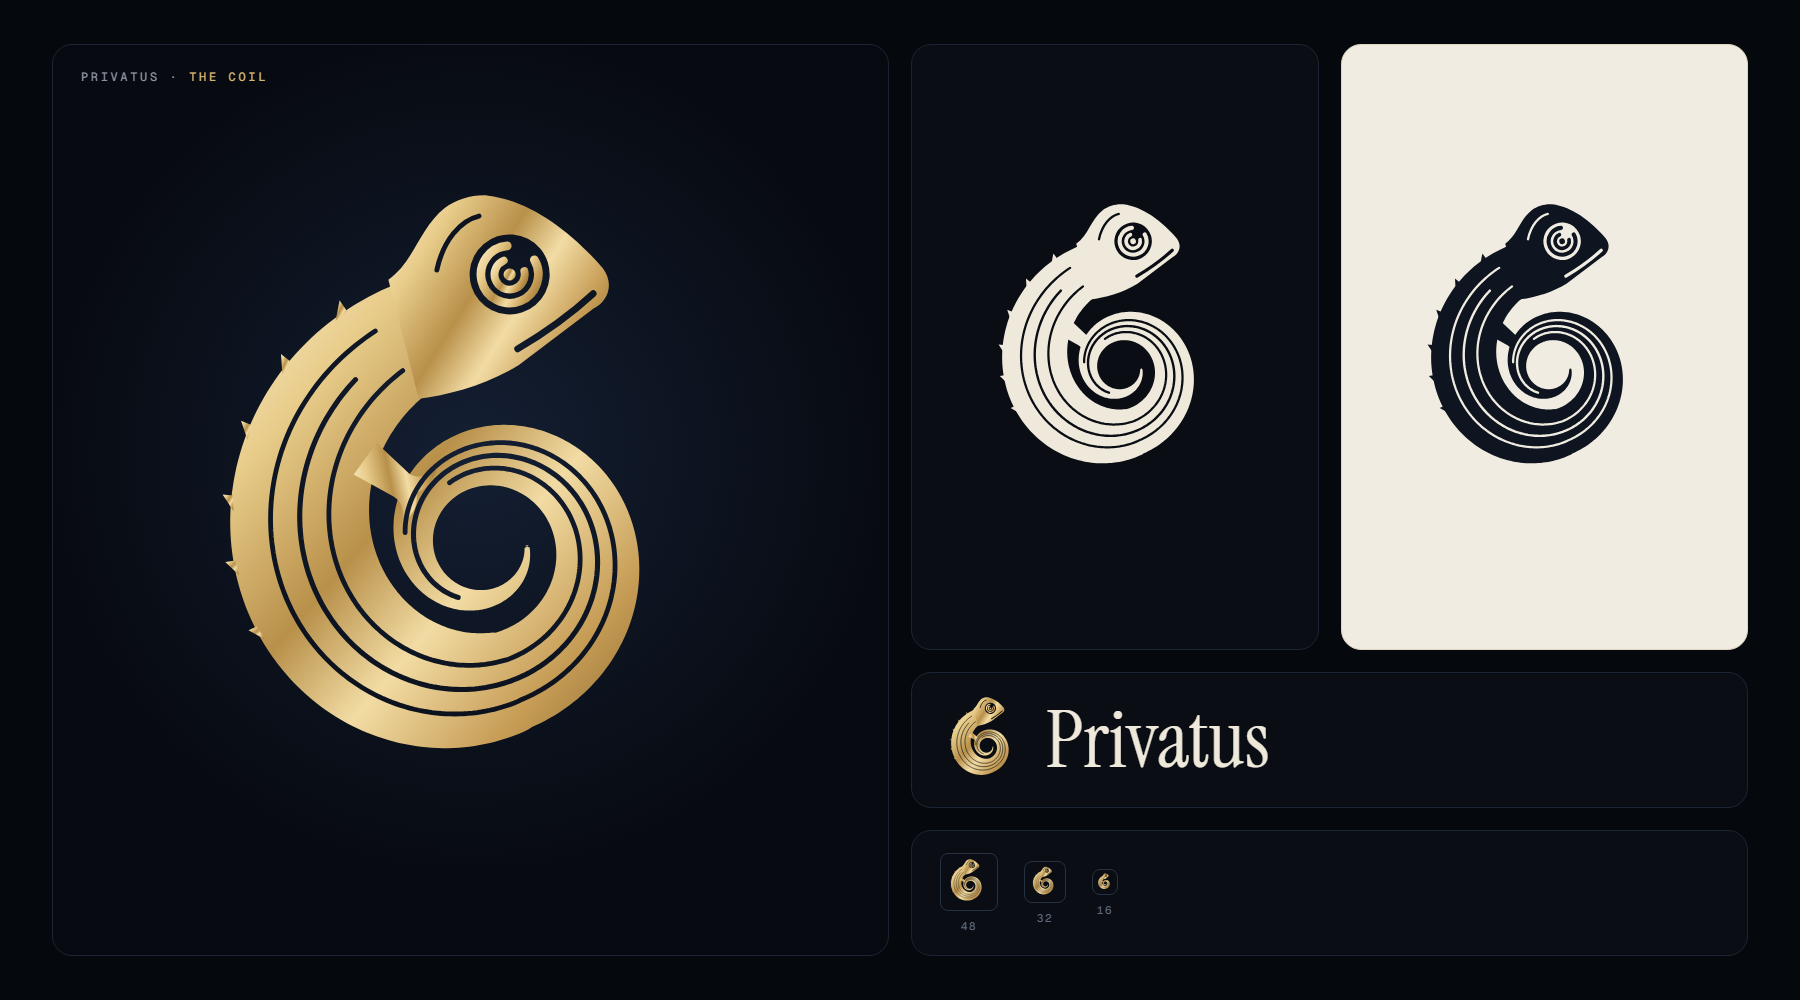
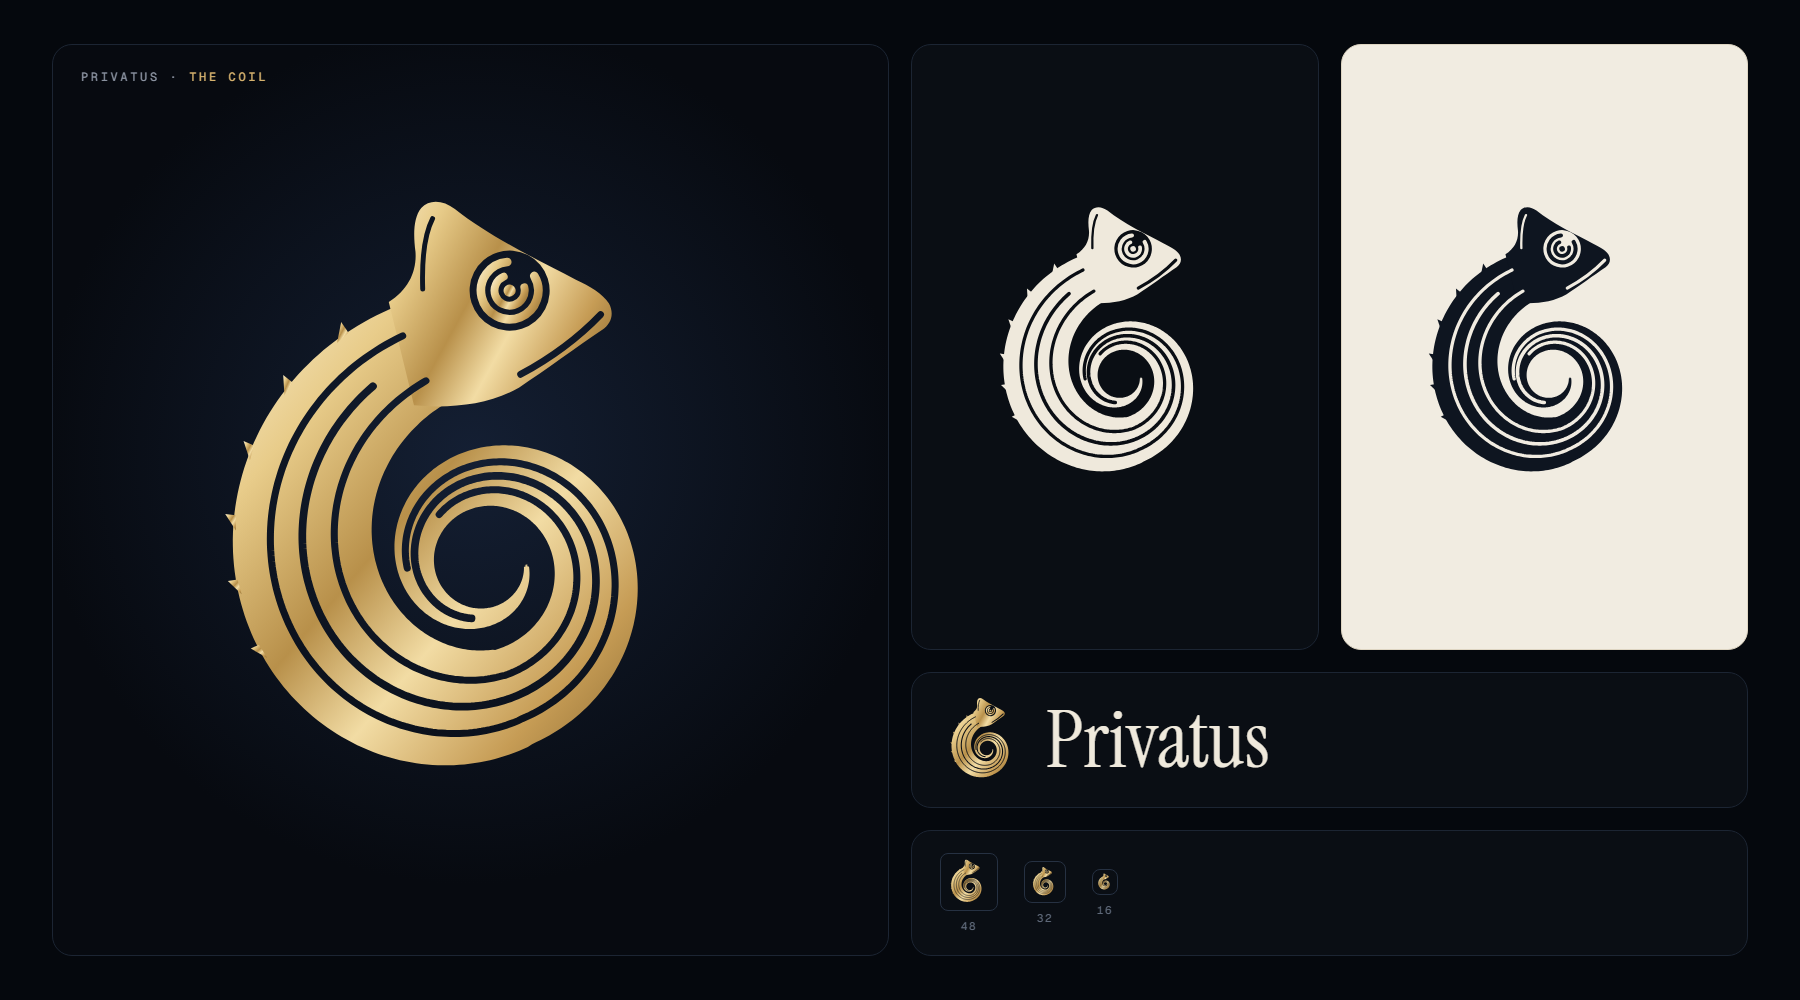
Coil mark: chameleon head and casque, bolder pinstripes, cleaner seams

diff --git a/crest.js b/crest.js
@@ -119,7 +119,7 @@ export function crest(svg, { animate = true, top = "PRIVATUS", bottom = "PRIVATE
 /* ---------- the coil: the chameleon as one golden spiral ---------- */
 // A bold emblem: the head sits at the top facing right and the body sweeps round the outside and coils into the centre
 // along a spiral that tightens by φ every half turn, tapering to a fine tail. Cut through it: pinstripes that follow the coil, the vault-dial eye
-// (two broken rings and a core), the mouth, and a foot gripping the inner turn. One colour, so it prints anywhere.
+// (two broken rings and a core), the mouth and the casque line. One colour, so it prints anywhere.
 // opts: tone "gold" | "ivory" | "ink", animate (the dial in the eye turns a click at a time; a sheen crosses the gold)
 export function coilMark(svg, { tone = "gold", animate = true, sheen = true } = {}) {
   const id = "co" + uid++, defs = el("defs", {}, svg);
@@ -127,7 +127,7 @@ export function coilMark(svg, { tone = "gold", animate = true, sheen = true } = 
   let fill = tone === "ivory" ? "#EFE9DC" : tone === "ink" ? "#0E1520" : `url(#${id}-gold)`;
   if (tone === "gold") { const g = el("linearGradient", { id: `${id}-gold`, x1: 0, y1: 0, x2: 1, y2: 1 }, defs); for (const [o, c] of GOLD.dark) el("stop", { offset: o, "stop-color": c }, g); }
   // the spine: a golden spiral from the neck, counter-clockwise round the outside and in to the centre
-  const C = [104, 114], R0 = 71, A0 = -Math.PI / 2 - .12, TURNS = 1.72, N = 420;
+  const C = [104, 120], R0 = 70, A0 = -Math.PI / 2 - .12, TURNS = 1.72, N = 420;
   // radius shrinks by φ every half turn
   const at = u => { const a = A0 - u * TURNS * 2 * Math.PI, r = R0 * PHI ** (-(A0 - a) / Math.PI); return [C[0] + Math.cos(a) * r, C[1] + Math.sin(a) * r]; };
   const spine = Array.from({ length: N + 1 }, (_, i) => at(i / N));
@@ -138,17 +138,17 @@ export function coilMark(svg, { tone = "gold", animate = true, sheen = true } = 
   const bodyD = ribbon(spine, width);
   // the head, drawn facing +x in its own frame and turned to follow the spiral at the neck
   const n0 = spine[0], n1 = spine[3], ang = Math.atan2(n0[1] - n1[1], n0[0] - n1[0]) * 180 / Math.PI;
-  const HEAD = "M-14 -15.5C-6 -18 -2 -26 6 -29C10 -30.4 15 -30 18 -28.6C28 -24 36 -13 41 -1C42.6 3.6 40 7.6 35.4 8.4L12 16.6C2 19 -8 18.4 -16 17Z";
+  const HEAD = "M-14 -15.5C-8 -17 -4.4 -21 -3.2 -26C-2.4 -30.4 -1 -34.8 1.8 -36.6C4.6 -38.2 8 -36.8 10.2 -33.6C16.6 -24 27 -14 35 -6C38 -3.2 40.6 -.4 41.4 2.6C42 5.6 40.4 8 37.6 8.8C30 11 20 14.4 12 16.6C3 18.6 -7 16.4 -16 12.6Z";
   const mask = el("mask", { id: `${id}-cut`, maskUnits: "userSpaceOnUse", x: 0, y: 0, width: 200, height: 200 }, defs);
   el("rect", { x: 0, y: 0, width: 200, height: 200, fill: "#fff" }, mask);
   const cuts = el("g", { fill: "none", stroke: "#000", "stroke-linecap": "round" }, mask);
   // pinstripes along the coil, each fading out at a different point so the body reads as motion
-  [[.42, .03, .7, 1.5], [0, .05, .82, 1.6], [-.42, .03, .62, 1.5]].forEach(([k, u0, u1, w]) => el("path", { d: line(offset(k, u0, u1)), "stroke-width": w }, cuts));
+  [[.46, .02, .72, 2.2], [0, .04, .84, 2.4], [-.46, .02, .64, 2.2]].forEach(([k, u0, u1, w]) => el("path", { d: line(offset(k, u0, u1)), "stroke-width": w }, cuts));
   const head = el("g", { transform: `translate(${f2(n0[0])} ${f2(n0[1])}) rotate(${f2(ang)}) scale(1.18)` }, cuts);
-  el("path", { d: "M36.5 4.6C30 7.6 21 10.6 13 12.4", "stroke-width": 1.8 }, head);   // mouth
-  el("path", { d: "M-1 -14C3 -21 9 -24.6 14 -24.2", "stroke-width": 1.3 }, head);    // casque line
+  el("path", { d: "M38.4 4.8C31 8.8 22 11.8 13.4 13.4", "stroke-width": 1.8 }, head);   // mouth
+  el("path", { d: "M-4.4 -16C-2.4 -23 .4 -29.6 3.8 -33", "stroke-width": 1.3 }, head);    // casque line
   // the vault-dial eye: a cut disc with two broken rings and a core left standing in it
-  const eyeLocal = [17, -7];
+  const eyeLocal = [17.4, -8.6];
   el("circle", { cx: eyeLocal[0], cy: eyeLocal[1], r: 10.6, fill: "#000", stroke: "none" }, head);
   const art = el("g", { mask: `url(#${id}-cut)` }, svg);
   el("path", { d: bodyD, fill }, art);
@@ -158,12 +158,6 @@ export function coilMark(svg, { tone = "gold", animate = true, sheen = true } = 
     const i = Math.round(u * N), p = spine[i], q = spine[i + 2], tx = q[0] - p[0], ty = q[1] - p[1], tl = Math.hypot(tx, ty), ox = (p[0] - C[0]), oy = (p[1] - C[1]), ol = Math.hypot(ox, oy), w = width(u) / 2 - .6;
     const b = [p[0] + ox / ol * w, p[1] + oy / ol * w], s = 4.4 - u * 9;
     el("path", { d: `M${f2(b[0] - tx / tl * 2.4)} ${f2(b[1] - ty / tl * 2.4)}L${f2(b[0] + ox / ol * s - tx / tl * 2.2)} ${f2(b[1] + oy / ol * s - ty / tl * 2.2)}L${f2(b[0] + tx / tl * 2.4)} ${f2(b[1] + ty / tl * 2.4)}Z`, fill }, art);
-  }
-  // a front leg on the inner edge, reaching in to grip the next turn of the coil
-  for (const u of [.075]) {
-    const fi = Math.round(u * N), fp = spine[fi], ix = C[0] - fp[0], iy = C[1] - fp[1], il = Math.hypot(ix, iy), ux = ix / il, uy = iy / il, w = width(u) / 2 - 2;
-    const leg = el("g", { transform: `translate(${f2(fp[0] + ux * w)} ${f2(fp[1] + uy * w)}) rotate(${f2(Math.atan2(uy, ux) * 180 / Math.PI - 90)}) scale(1.45)` }, art);
-    el("path", { d: "M-4.2 -1L4.2 -1L3 8.6C3 10.4 4.4 11.8 7.4 12.6C5 13.8 2.4 13.6 .6 12.2C-1 14 -3.8 14.6 -6.6 13.6C-3.8 12.4 -2.8 10.6 -3 8.6Z", fill }, leg);
   }
   // the dial standing in the eye
   const eyeG = el("g", { transform: `translate(${f2(n0[0])} ${f2(n0[1])}) rotate(${f2(ang)}) scale(1.18) translate(${eyeLocal[0]} ${eyeLocal[1]})` }, svg);
